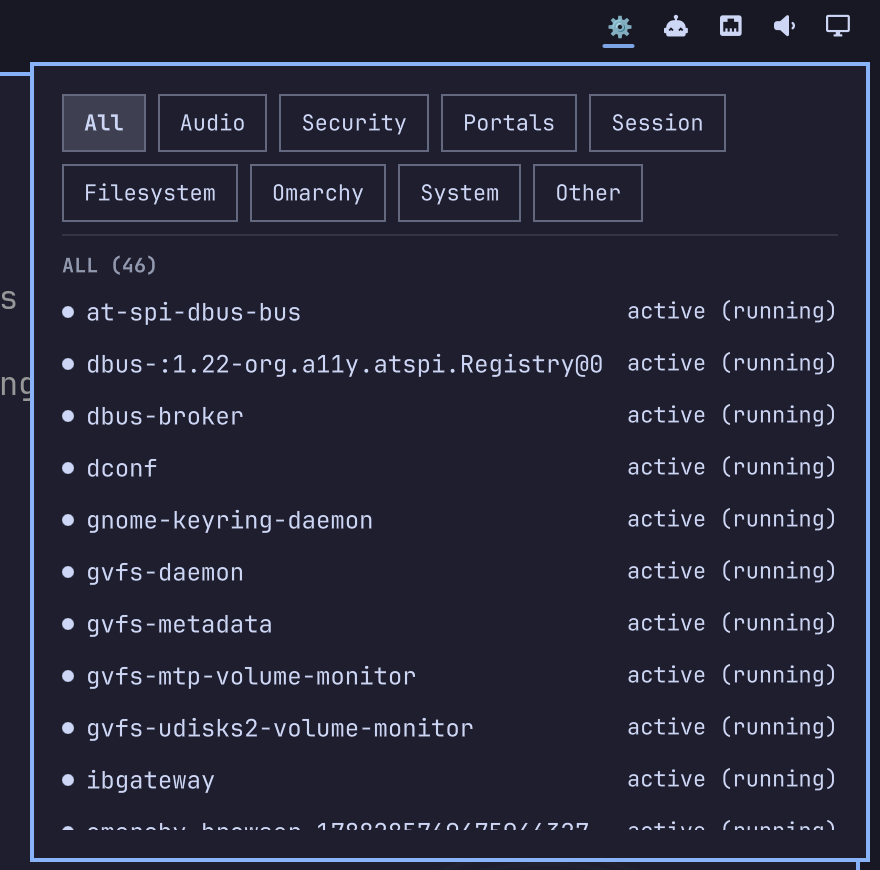
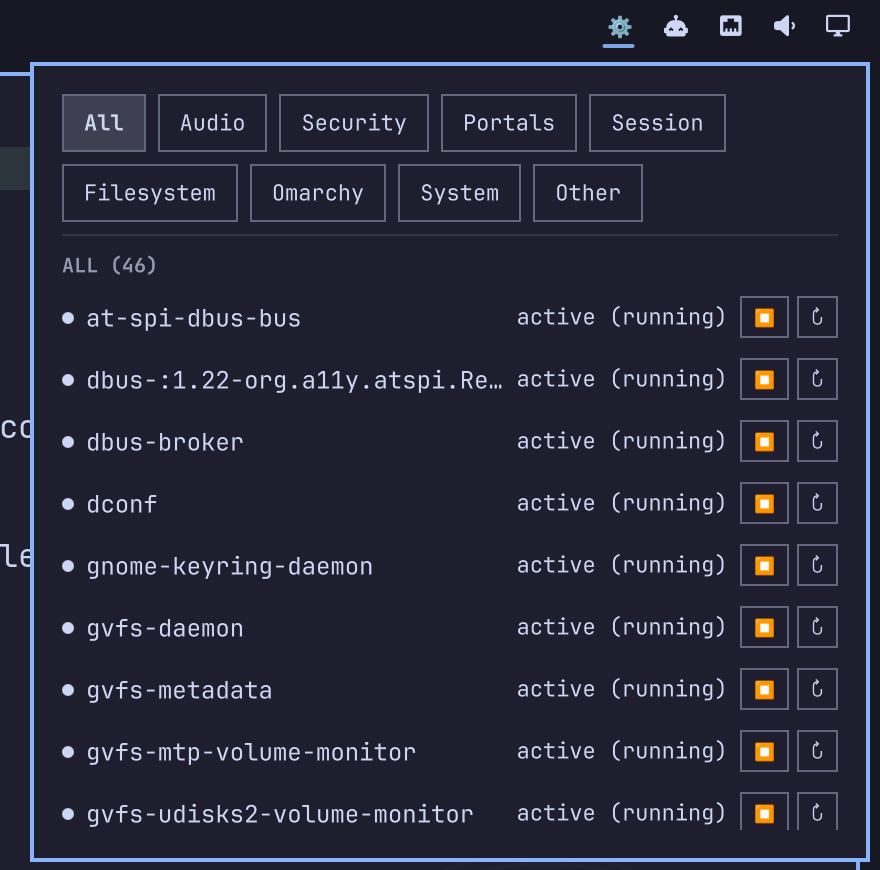
Wire start/stop/restart action buttons into the panel (task-6zg)
Test-first: Model.js gains toggleAction() and actionErrorMessage(),
covered by a Scenario Outline plus 2 error-formatting scenarios,
red before implementing, green after.

Two compact icon-only buttons per row (real qs.Ui Button with
iconText, not stock QtQuick.Controls) -- a context-sensitive
Start/Stop toggle plus an always-available Restart, both disabled
while any action is in flight anywhere (matches Service.qml's actual
single-flight guard, avoids dead clicks on other rows).

No click-simulation tool exists on this system, so the real action
wiring was verified end-to-end a different way: a real disposable
persistent unit (not a systemd-run transient -- those get garbage
collected once stopped, discovered the hard way in the cucumber step
defs) plus temporary Timers calling the Service.qml methods directly,
confirmed via systemctl show and qs log.

That live verification caught a real bug no static gate could have:
action errors were silently wiped within ~400ms by the next
successful poll refresh, since both shared one lastError property
that gets unconditionally cleared on any successful list fetch. Split
into lastError (list-poll) vs lastActionError (action failures) with
its own ~6s auto-clear timer, mirroring the shipped tailscale
plugin's actionStatusTimer pattern. Re-verified with precise timing
checks that the fix actually holds, and documented the bug directly
in the Gherkin scenario so it can't silently regress.
[…]

diff --git a/Panel.qml b/Panel.qml
@@ -53,6 +53,18 @@ Panel {
     onClicked: root.selectedTabKey = modelData.key
   }
 
+  // Compact icon-only row action button (task-6zg). Icon-only + tooltip
+  // keeps 46 rows scannable; a full text label per action per row would be
+  // far too wide for two actions on every one of them.
+  component RowActionButton: Button {
+    bordered: true
+    foreground: root.barForeground
+    fontFamily: root.bar ? root.bar.fontFamily : Style.font.family
+    iconSize: Style.font.bodySmall
+    horizontalPadding: Style.space(6)
+    verticalPadding: Style.space(2)
+  }
+
   WidgetButton {
     id: button
     anchors.fill: parent
@@ -109,6 +121,16 @@ Panel {
             font.pixelSize: Style.font.bodySmall
           }
 
+          Text {
+            width: parent.width
+            visible: services.lastActionError !== ""
+            text: "Error: " + services.lastActionError
+            wrapMode: Text.WordWrap
+            color: Color.urgent
+            font.family: root.bar ? root.bar.fontFamily : Style.font.family
+            font.pixelSize: Style.font.bodySmall
+          }
+
           // Fixed tab set (task-xdw): same key set every time, even at 0,
           // so the row doesn't reflow as services start/stop.
           Column {
@@ -155,8 +177,16 @@ Panel {
             model: root.currentTab.units
 
             delegate: Item {
+              id: row
+              required property var modelData
+
+              readonly property var toggle: Model.toggleAction(modelData)
+              readonly property bool busy: services.pendingUnit !== ""
+              readonly property bool thisRowBusy: services.pendingUnit === modelData.name
+
               width: column.width
-              height: Math.max(dot.height, nameText.implicitHeight, stateText.implicitHeight) + Style.space(4)
+              height: Math.max(dot.height, nameText.implicitHeight, stateText.implicitHeight,
+                                toggleBtn.implicitHeight, restartBtn.implicitHeight) + Style.space(4)
 
               Rectangle {
                 id: dot
@@ -165,15 +195,39 @@ Panel {
                 radius: width / 2
                 anchors.left: parent.left
                 anchors.verticalCenter: parent.verticalCenter
-                color: root.rowColor(modelData)
+                color: root.rowColor(row.modelData)
+              }
+
+              RowActionButton {
+                id: restartBtn
+                anchors.right: parent.right
+                anchors.verticalCenter: parent.verticalCenter
+                iconText: "↻"
+                tooltipText: row.thisRowBusy && services.pendingVerb === "restart" ? "Restarting…" : "Restart"
+                enabled: !row.busy
+                onClicked: services.restartUnit(row.modelData.name)
+              }
+
+              RowActionButton {
+                id: toggleBtn
+                anchors.right: restartBtn.left
+                anchors.rightMargin: Style.space(4)
+                anchors.verticalCenter: parent.verticalCenter
+                iconText: row.toggle.verb === "stop" ? "⏹" : "▶"
+                tooltipText: row.thisRowBusy ? row.toggle.label + "ing…" : row.toggle.label
+                enabled: !row.busy
+                onClicked: row.toggle.verb === "stop"
+                  ? services.stopUnit(row.modelData.name)
+                  : services.startUnit(row.modelData.name)
               }
 
               Text {
                 id: stateText
-                anchors.right: parent.right
+                anchors.right: toggleBtn.left
+                anchors.rightMargin: Style.space(6)
                 anchors.verticalCenter: parent.verticalCenter
-                text: Model.stateLabel(modelData)
-                color: root.rowColor(modelData)
+                text: Model.stateLabel(row.modelData)
+                color: root.rowColor(row.modelData)
                 font.family: root.bar ? root.bar.fontFamily : Style.font.family
                 font.pixelSize: Style.font.bodySmall
               }
@@ -186,7 +240,7 @@ Panel {
                 anchors.rightMargin: Style.space(6)
                 anchors.verticalCenter: parent.verticalCenter
                 elide: Text.ElideRight
-                text: modelData.shortName
+                text: row.modelData.shortName
                 color: root.barForeground
                 font.family: root.bar ? root.bar.fontFamily : Style.font.family
                 font.pixelSize: Style.font.body

diff --git a/features/step_definitions/start_stop_restart_service.steps.js b/features/step_definitions/start_stop_restart_service.steps.js
@@ -1,0 +1,77 @@
+const { Given, When, Then, After } = require("@cucumber/cucumber")
+const assert = require("node:assert/strict")
+const { execFileSync } = require("node:child_process")
+const fs = require("node:fs")
+const os = require("node:os")
+const path = require("node:path")
+const Model = require("../../Model.js")
+
+// systemd-run --no-block creates a TRANSIENT unit: once it stops, systemd
+// garbage-collects the unit definition entirely, so a later `start` fails
+// with "not found" -- discovered by running this scenario for real, not
+// guessed. A real (temporary) unit file is required to stop/start/restart
+// the same unit repeatedly, like a normal persistent service.
+Given("a disposable {string} unit created only for this test", function(_context) {
+  this.unit = "oma-systemd-cucumber-test-" + process.pid + ".service"
+  const dir = path.join(os.homedir(), ".config", "systemd", "user")
+  fs.mkdirSync(dir, { recursive: true })
+  this._unitFile = path.join(dir, this.unit)
+  fs.writeFileSync(this._unitFile, "[Service]\nExecStart=/usr/bin/sleep infinity\n")
+  execFileSync("systemctl", ["--user", "daemon-reload"])
+  execFileSync("systemctl", ["--user", "start", this.unit])
+  this._cleanup = () => {
+    try { execFileSync("systemctl", ["--user", "stop", this.unit]) } catch (e) {}
+    try { fs.unlinkSync(this._unitFile) } catch (e) {}
+    try { execFileSync("systemctl", ["--user", "daemon-reload"]) } catch (e) {}
+    try { execFileSync("systemctl", ["--user", "reset-failed", this.unit]) } catch (e) {}
+  }
+})
+
+function unitActiveState(unit) {
+  try {
+    return execFileSync("systemctl", ["--user", "show", unit, "--property=ActiveState", "--value"], { encoding: "utf8" }).trim()
+  } catch (e) {
+    return "unknown"
+  }
+}
+
+function unitStartTimestamp(unit) {
+  // Monotonic microsecond-resolution clock, not the human-readable wall-clock
+  // timestamp (second resolution) -- a fast restart can land in the same
+  // wall-clock second, which made this flaky when discovered against the
+  // real disposable unit.
+  return execFileSync("systemctl", ["--user", "show", unit, "--property=ActiveEnterTimestampMonotonic", "--value"], { encoding: "utf8" }).trim()
+}
+
+When("I run {string}", function(command) {
+  const parts = command.replace("<unit>", this.unit).split(" ")
+  this._beforeTimestamp = this._lastTimestamp
+  execFileSync(parts[0], parts.slice(1))
+  this._lastTimestamp = unitStartTimestamp(this.unit)
+})
+
+Then("the unit's active state becomes {string}", function(expected) {
+  assert.equal(unitActiveState(this.unit), expected)
+})
+
+Then("its start timestamp changes", function() {
+  assert.notEqual(this._lastTimestamp, this._beforeTimestamp)
+})
+
+After(function() {
+  if (this._cleanup) this._cleanup()
+})
+
+Given("a unit with active state {string}", function(state) {
+  this.toggleUnit = { name: "x.service", shortName: "x", activeState: state, subState: state }
+})
+
+Then("its toggle action is {string} labelled {string}", function(verb, label) {
+  const action = Model.toggleAction(this.toggleUnit)
+  assert.equal(action.verb, verb)
+  assert.equal(action.label, label)
+})
+
+Then("the action error for {string} on {string} with detail {string} is {string}", function(verb, unit, detail, expected) {
+  assert.equal(Model.actionErrorMessage(verb, unit, detail), expected)
+})

diff --git a/Service.qml b/Service.qml
@@ -12,11 +12,23 @@ Item {
   property int failedCount: 0
   property bool refreshing: false
   property string lastError: ""
+  // Separate from lastError (list-poll failures): an action error must
+  // stay visible for a beat, not get silently wiped by the very next
+  // successful poll -- discovered live, the delayedRefresh 400ms after
+  // every action was clearing it in under half a second.
+  property string lastActionError: ""
 
   readonly property int refreshIntervalSec: intSetting("refreshIntervalSec", 10, 5, 300)
 
+  // Unit currently mid-action, so the row can disable its buttons instead
+  // of racing a second command against the first.
+  property string pendingUnit: ""
+  property string pendingVerb: ""
+
   property string _listOutput: ""
   property string _listError: ""
+  property string _actionOutput: ""
+  property string _actionError: ""
 
   function setting(name, fallback) {
     var value = settings ? settings[name] : undefined
@@ -51,6 +63,21 @@ Item {
     lastError = ""
   }
 
+  function startUnit(name) { runAction("start", name) }
+  function stopUnit(name) { runAction("stop", name) }
+  function restartUnit(name) { runAction("restart", name) }
+
+  function runAction(verb, name) {
+    if (!name || actionProcess.running) return
+    pendingUnit = name
+    pendingVerb = verb
+    lastActionError = ""
+    _actionOutput = ""
+    _actionError = ""
+    actionProcess.command = ["systemctl", "--user", verb, name]
+    actionProcess.running = true
+  }
+
   Timer {
     id: refreshTimer
     interval: root.refreshIntervalSec * 1000
@@ -67,6 +94,44 @@ Item {
     interval: 15000
     repeat: false
     onTriggered: if (listProcess.running) listProcess.running = false
+  }
+
+  Timer {
+    // Give systemd a beat to settle before re-polling, rather than racing
+    // the refresh against the action's own state transition.
+    id: delayedRefresh
+    interval: 400
+    repeat: false
+    onTriggered: root.refresh()
+  }
+
+  Timer {
+    // Mirrors the shipped tailscale plugin's actionStatusTimer convention:
+    // an action error is a transient toast, not a permanent banner, but
+    // it must survive at least the delayedRefresh 400ms after it or no one
+    // would ever see it.
+    id: actionErrorTimer
+    interval: 6000
+    repeat: false
+    onTriggered: root.lastActionError = ""
+  }
+
+  Process {
+    id: actionProcess
+    running: false
+    command: []
+    stdout: StdioCollector { id: actionStdout; waitForEnd: true; onStreamFinished: root._actionOutput = text }
+    stderr: StdioCollector { id: actionStderr; waitForEnd: true; onStreamFinished: root._actionError = text }
+    onExited: function(exitCode) {
+      if (exitCode !== 0) {
+        var detail = actionStderr.text || root._actionError || actionStdout.text || root._actionOutput
+        root.lastActionError = Model.actionErrorMessage(root.pendingVerb, root.pendingUnit, detail)
+        actionErrorTimer.restart()
+      }
+      root.pendingUnit = ""
+      root.pendingVerb = ""
+      delayedRefresh.restart()
+    }
   }
 
   Process {

diff --git a/Model.js b/Model.js
@@ -120,6 +120,20 @@ function groupUnitsByCategory(units) {
   })
 }
 
+// Which action the row's toggle button represents right now. Restart is a
+// separate, always-available button (not modeled here) since it's valid
+// from any state.
+function toggleAction(unit) {
+  if (isRunning(unit)) return { verb: "stop", label: "Stop" }
+  return { verb: "start", label: "Start" }
+}
+
+function actionErrorMessage(verb, unitName, detail) {
+  var base = String(verb) + " " + String(unitName) + " failed"
+  var trimmed = String(detail || "").trim()
+  return trimmed ? base + ": " + trimmed : base
+}
+
 function badgeState(failedCount) {
   if (failedCount <= 0) {
     return { icon: "⚙", badge: "", tooltip: "User services" }
@@ -145,6 +159,8 @@ if (typeof module !== "undefined") {
     categorize: categorize,
     categoryLabel: categoryLabel,
     groupUnitsByCategory: groupUnitsByCategory,
-    CATEGORY_KEYS: CATEGORY_KEYS
+    CATEGORY_KEYS: CATEGORY_KEYS,
+    toggleAction: toggleAction,
+    actionErrorMessage: actionErrorMessage
   }
 }

diff --git a/.tl/tasks/task-6zg.md b/.tl/tasks/task-6zg.md
@@ -1,11 +1,11 @@
 ---
 id: task-6zg
 title: Start, stop, and restart a user service from the panel
-status: open
+status: done
 priority: medium
 type: task
 created_at: 2026-09-01T18:36:41Z
-updated_at: 2026-09-01T18:36:41Z
+updated_at: 2026-09-01T22:01:18Z
 created_by: claude-code
 assignee: null
 depends_on:
@@ -25,3 +25,7 @@ references:
 ## Description
 
 Per-row Start/Stop/Restart buttons invoke systemctl --user start|stop|restart, disable while in flight, refresh after, and surface errors instead of failing silently.
+
+## Notes
+
+- 2026-09-01T22:01:18Z [claude-code] note: Test-first: added toggleAction(unit) and actionErrorMessage(verb,name,detail) pure functions to Model.js, plus a Scenario Outline (3 states) and 2 error-formatting scenarios, all red before implementing, green after. UX design (asked to grill on this, but the user redirected to real shipped examples instead -- see task-xdw's history): two compact icon-only Button instances per row (real qs.Ui Button, iconText not text, tooltipText for clarity) -- a context-sensitive toggle (▶ start / ⏹ stop, whichever applies) plus an always-available restart (↻), both disabled while ANY action is in flight globally (services.pendingUnit !== ''), not just the affected row -- matches the actual single-flight constraint in Service.qml's runAction guard, avoids a dead click on other rows. Live-verified the REAL action wiring end-to-end, not just bash-level systemctl (no click-simulation tool available -- no wlrctl/ydotool on this system): created a real disposable persistent unit (~/.config/systemd/user/oma-systemd-live-test.service, not a systemd-run transient -- already learned that lesson from the cucumber step defs), temporarily wired Timers calling services.stopUnit/startUnit/restartUnit directly, confirmed via qs log + systemctl show that all three real actions executed correctly through the QML Process path with no overlap issues. Found and fixed a REAL bug via this live verification that no static gate or automated test could have caught: action errors were being silently wiped within ~400ms by the delayedRefresh's own successful poll (both shared one lastError property, and applyUnits() unconditionally clears it on any successful list refresh). A user would never actually see an action failure -- it flashed for under half a second. Fixed by splitting into lastError (list-poll) vs lastActionError (action failures), with its own ~6s auto-clear timer mirroring the shipped tailscale plugin's actionStatusTimer convention. Re-verified with precise timing checks (t+150ms/600ms/2000ms/6500ms) that the error now survives the refresh and clears on its own schedule -- confirmed both via log and a screenshot catching the banner live. Documented the bug and the new contract directly in the Gherkin scenario so a future refactor can't silently reintroduce it. All temporary verification code and the disposable test unit fully removed and reverted; final restart re-confirmed clean (geometry 30x26, zero log warnings, count back to the real 46). Updated README (feature list, Scope, Roadmap, refreshed panel-tabs.png screenshot to show the real action buttons) now that this is genuinely shipped, not aspirational.

diff --git a/README.md b/README.md
@@ -1,7 +1,7 @@
 # Systemd User Services (Omarchy plugin)
 
-Monitor `systemctl --user` services from the Omarchy bar, grouped and
-searchable instead of one long flat list.
+List and control `systemctl --user` services from the Omarchy bar, grouped
+into tabs instead of one long flat list.
 
 - Bar icon shows a warning badge with the count of failed user services;
   a quiet gear icon otherwise.
@@ -10,20 +10,19 @@ searchable instead of one long flat list.
 - Services are grouped into semantic tabs (Audio, Security, Portals, Session,
   Filesystem, Omarchy, System, Other) alongside an All tab — see "Category
   taxonomy" below.
-- Start / Stop / Restart each unit inline — **in progress, not shipped yet**
-  (tracked in the task ledger as `task-6zg`); today the plugin is
-  view/monitor-only.
+- Start/Stop (context-sensitive toggle) and Restart per row, via compact
+  icon buttons with tooltips — disabled while an action is in flight,
+  failures surface as an error naming the unit and action.
 
 ![Bar icon](docs/bar-icon.png)
 
-![Panel with category tabs](docs/panel-tabs.png)
+![Panel with category tabs and action buttons](docs/panel-tabs.png)
 
 ## Scope (MVP)
 
 - `systemctl --user` units only — no root/system-wide units, no privilege escalation.
-- Currently **read-only**: list, categorize, and surface failures. Start/stop/
-  restart control is designed for (`Service.qml` already has the polling
-  half) but not yet wired into the panel — see Roadmap.
+- List, categorize, surface failures, and control (start/stop/restart) each
+  unit. One action in flight at a time (not per-row-concurrent).
 - No enable/disable (autostart toggle), no log tailing, no notifications,
   no search/filter yet — see Roadmap.
 - Polling-based refresh (default every 10s, configurable 5–300s), not D-Bus signals.
@@ -166,8 +165,6 @@ for quick unit-parsing checks.
 
 ## Roadmap ideas
 
-- **Start/Stop/Restart from the panel** — next up (`task-6zg`); the polling
-  service already exists, this wires panel buttons to it.
 - Enable/disable toggle (autostart) per unit.
 - Inline `journalctl --user -u <unit> -n 20` tail per row.
 - Notification (`notify-send`) when a unit transitions into `failed`.

diff --git a/.tl/tasks/task-ydv.md b/.tl/tasks/task-ydv.md
@@ -1,0 +1,22 @@
+---
+id: task-ydv
+title: Service Logs
+status: open
+priority: medium
+type: task
+created_at: 2026-09-01T22:00:59Z
+updated_at: 2026-09-01T22:00:59Z
+created_by: human
+assignee: null
+depends_on: []
+claim:
+  actor: null
+  claimed_at: null
+  expires_at: null
+  heartbeat_at: null
+tags: []
+---
+
+## Description
+
+There shoild be a possibility to quickly jumpt ot servie logs. Ideas needs to be developoed it should be Omarch native. Maybe new shel with logs to navigate? 
